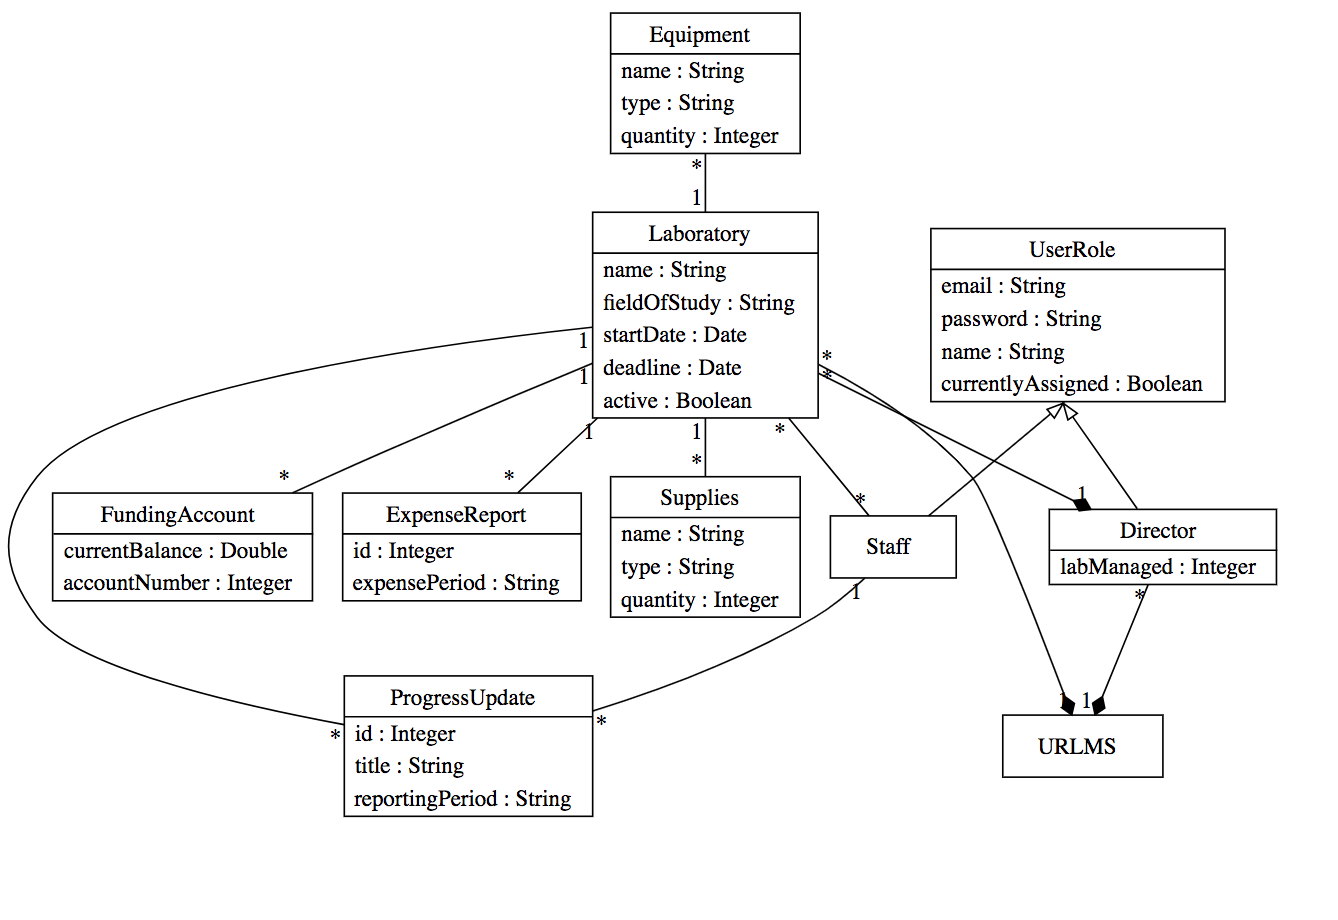
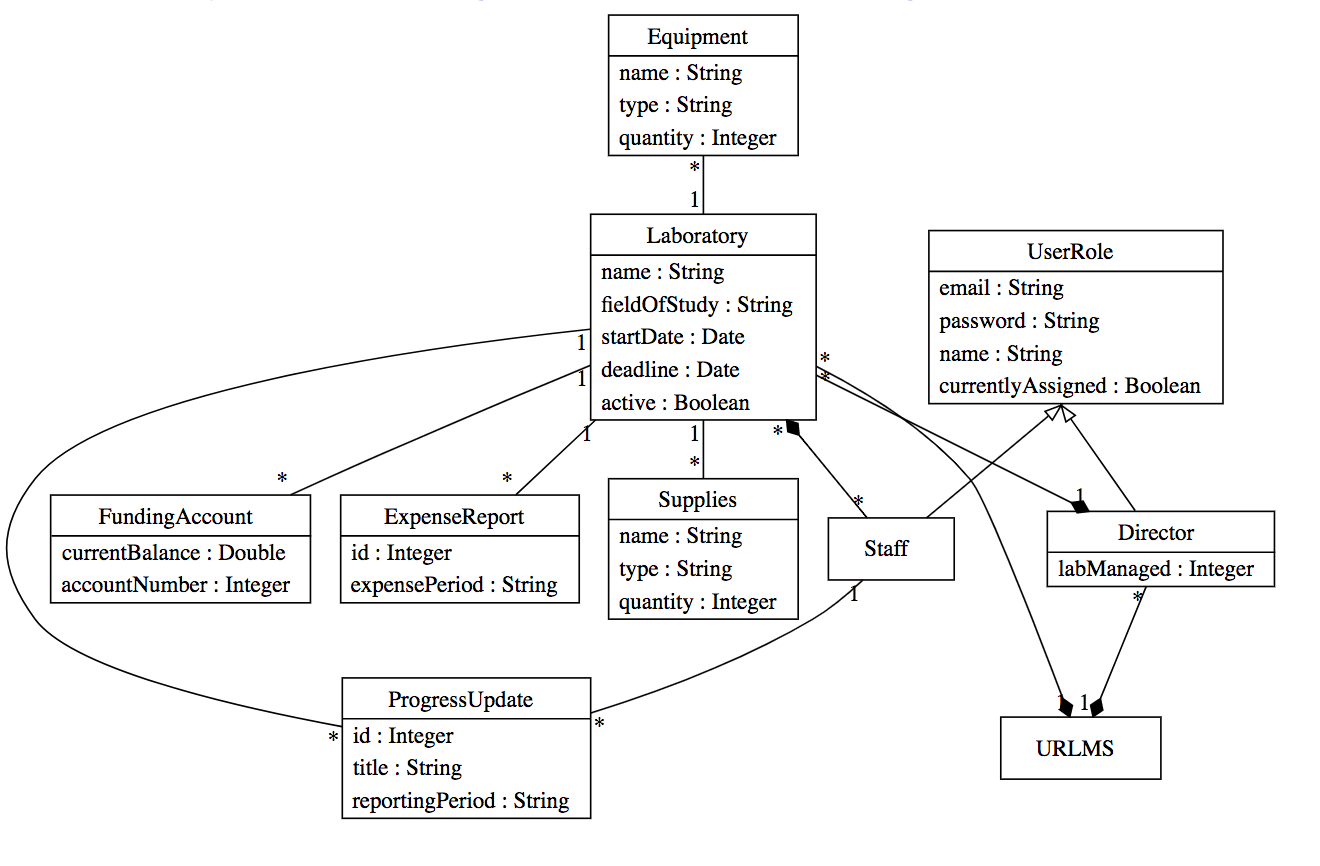
correction to the model

diff --git a/WebURLMS/model/Laboratory.php b/WebURLMS/model/Laboratory.php
@@ -1,4 +1,4 @@
-<?php 
+<?php
 /*PLEASE DO NOT EDIT THIS CODE*/
 /*This code was generated using the UMPLE 1.26.0-b05b57321 modeling language!*/
 
@@ -897,12 +897,14 @@ class Laboratory
     {
       $aSupply->delete();
     }
-    $copyOfStaffs = $this->staffs;
-    $this->staffs = array();
-    foreach ($copyOfStaffs as $aStaff)
+    while (count($this->staffs) > 0)
     {
-      $aStaff->removeLaboratory($this);
+      $aStaff = $this->staffs[count($this->staffs) - 1];
+      $aStaff->delete();
+      unset($this->staffs[$this->indexOfStaff($aStaff)]);
+      $this->staffs = array_values($this->staffs);
     }
+    
     foreach ($this->progressUpdates as $aProgressUpdate)
     {
       $aProgressUpdate->delete();

diff --git a/URLMS/test/ca/mcgill/ecse321/urlms/persistence/TestLoginPersistence.java b/URLMS/test/ca/mcgill/ecse321/urlms/persistence/TestLoginPersistence.java
@@ -27,9 +27,9 @@ public class TestLoginPersistence {
 		urlms = new URLMS();
 		
 		//Create participants
-		Director dr = new Director(testEmail, testPassword, testDirName, urlms);
-		Staff staffMember = new Staff(testStaffEmail, testPassword, testStaffName); 
+		Director dr = new Director(testEmail, testPassword, testDirName, urlms); 
 		urlms.addLaboratory("LabOne", "Test", new Date(2017, 10, 10), new Date(2017, 10, 10), true, dr);
+		Staff staffMember = new Staff(testStaffEmail, testPassword, testStaffName); 
 		urlms.getLaboratory(0).addStaff(staffMember);
 		
 		PersistenceXStream.initializeURLMS("output"+File.separator+"data.xml");

diff --git a/URLMS/src/ca/mcgill/ecse321/urlms/model/Laboratory.java b/URLMS/src/ca/mcgill/ecse321/urlms/model/Laboratory.java
@@ -826,12 +826,13 @@ public class Laboratory
       Supplies aSupply = supplies.get(i - 1);
       aSupply.delete();
     }
-    ArrayList<Staff> copyOfStaffs = new ArrayList<Staff>(staffs);
-    staffs.clear();
-    for(Staff aStaff : copyOfStaffs)
+    while (staffs.size() > 0)
     {
-      aStaff.removeLaboratory(this);
+      Staff aStaff = staffs.get(staffs.size() - 1);
+      aStaff.delete();
+      staffs.remove(aStaff);
     }
+    
     for(int i=progressUpdates.size(); i > 0; i--)
     {
       ProgressUpdate aProgressUpdate = progressUpdates.get(i - 1);

diff --git a/URLMS/test/ca/mcgill/ecse321/urlms/controller/TestURLMSController.java b/URLMS/test/ca/mcgill/ecse321/urlms/controller/TestURLMSController.java
@@ -14,11 +14,11 @@ import ca.mcgill.ecse321.urlms.model.*;
 
 public class TestURLMSController {
 	
-	private static String testEmail ="Director@urlms.ca";
+	private static String testEmail ="director@urlms.ca";
 	private static String testPassword ="password";
 	private static String testName ="Director";
 	
-	private static String testStaffEmail ="Staff@urlms.ca";
+	private static String testStaffEmail ="staff@urlms.ca";
 	private static String testStaffPassword ="password1";
 	private static String testStaffName ="Member";
 	

diff --git a/WebURLMS/model/Director.php b/WebURLMS/model/Director.php
@@ -1,5 +1,4 @@
 <?php
-require_once 'UserRole.php';
 /*PLEASE DO NOT EDIT THIS CODE*/
 /*This code was generated using the UMPLE 1.26.0-b05b57321 modeling language!*/
 
